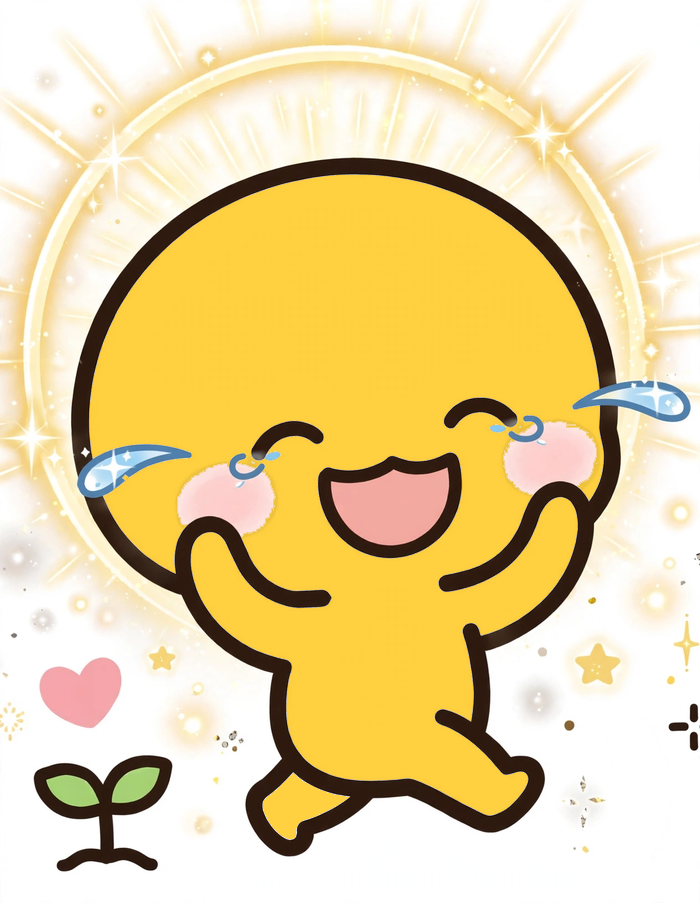
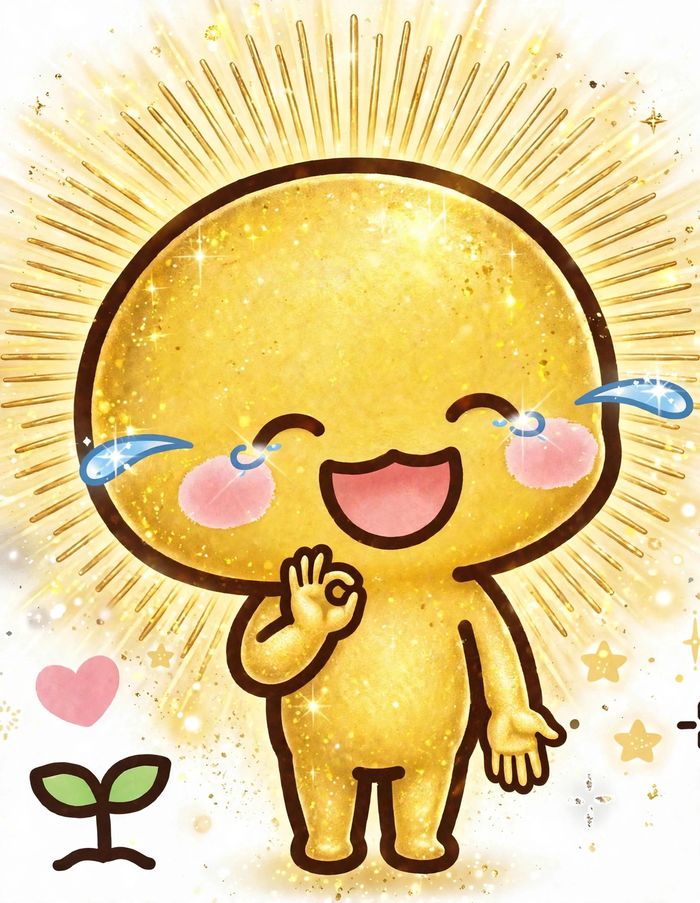
おもろグ〜の土台を用意（投稿ログ＋おもろボタン＋おもろっち育成）

diff --git a/index.html b/index.html
@@ -191,6 +191,7 @@
   }
 
   /* ===== おもろっちについて（ポップアップ） ===== */
+  .house .about-row{ margin:8px 0 0; }
   .about-link{
     display:inline-block;
     min-height:48px; padding:12px 10px;
@@ -298,6 +299,22 @@
     font-family:inherit;
     transition:transform .1s ease, background .2s ease;
   }
+  /* ===== シェアボタン（おもろボタンの横） ===== */
+  .btn-actions{ display:inline-flex; align-items:center; gap:8px; }
+  .share-btn{
+    display:inline-flex; align-items:center; gap:6px;
+    min-height:48px; min-width:48px;
+    padding:8px 14px;
+    border:3px solid var(--card-border);
+    background:#fff; color:var(--orange-dark);
+    border-radius:999px;
+    font-size:15px; font-weight:900; font-family:inherit;
+    cursor:pointer;
+    transition:transform .1s ease, background .2s ease;
+    -webkit-tap-highlight-color:transparent;
+  }
+  .share-btn:active{ transform:scale(.94); }
+  .share-btn svg{ display:block; flex:0 0 auto; }
   .omoro-btn:active{ transform:scale(.94); }
   .omoro-btn img{ width:30px; display:block; }
   .omoro-btn .cnt{ font-size:17px; }
@@ -336,7 +353,7 @@
 
   <div class="growth-zone">
     <button type="button" class="growth-toggle" id="growthToggle" aria-expanded="false" aria-controls="growthPanel">
-      <img class="thumb" id="toggleThumb" src="stage-egg-0.png" width="700" height="903" alt="">
+      <img class="thumb" id="toggleThumb" src="stage-egg-t0.png" width="700" height="903" alt="">
       <span>おもろっちのおうち</span>
       <span class="chev" aria-hidden="true">▽</span>
     </button>
@@ -344,16 +361,17 @@
       <div class="house-roof" aria-hidden="true"></div>
       <div class="house-room" id="houseRoom">
         <button type="button" class="walker" id="walker" aria-label="おもろっち">
-          <span class="jumpwrap" id="jumpWrap"><img id="stageImg" src="stage-egg-0.png" width="700" height="903" alt="おもろっち"></span>
+          <span class="jumpwrap" id="jumpWrap"><img id="stageImg" src="stage-egg-t0.png" width="700" height="903" alt="おもろっち"></span>
         </button>
       </div>
       <div class="form-row" id="formRow" aria-label="すがたをえらぶ"></div>
       <div class="progress">
-        <p class="total-row"><img src="omorocchi-icon.png" width="512" height="512" alt=""><b id="totalCount">0</b></p>
+        <p class="total-row"><img id="totalImg" src="stage-egg-t0.png" width="700" height="903" alt=""><b id="totalCount">0</b></p>
         <div class="bar"><div id="barFill"></div></div>
-        <p class="next-row" id="nextRow"><img id="nextImg" src="stage-baby.png" width="700" height="903" alt=""><span>あと <b id="nextCount">10</b></span></p>
+        <p class="next-row" id="nextRow"><img id="nextImg" src="stage-egg-t0.png" width="700" height="903" alt=""><span>あと <b id="nextCount">10</b></span></p>
         <p class="next-row" id="maxRow" hidden><img src="stage-god.png" width="700" height="903" alt=""><span>✨</span></p>
       </div>
+      <p class="about-row"><button type="button" class="about-link" id="aboutOpen">おもろっちについて ›</button></p>
     </div>
   </div>
 </header>
@@ -362,7 +380,6 @@
   <main id="list"></main>
 
   <footer>
-    <p><button type="button" class="about-link" id="aboutOpen">おもろっちについて ›</button></p>
     <p>おもろグ〜は、平和で面白い投稿を集める小さなログです。<br>
     運営：<a href="https://takechanlink.pages.dev/" target="_blank" rel="noopener">心体調整塾 たけちゃん</a></p>
   </footer>
@@ -375,14 +392,14 @@
       <button type="button" class="about-x" id="aboutCloseX" aria-label="閉じる">×</button>
     </div>
     <p>面白い投稿の「おもろ」ボタンを押すと、その数がおもろっちの力になります。みんなのおもろが増えると、おもろっちは成長します。</p>
-    <p>進捗の見方：おもろっちの顔と数字が、みんなのおもろの合計です。次のステージの絵と「あと◯」が、次の成長までの残りです。</p>
+    <p>進捗の見方：おもろっちの顔と数字が、みんなのおもろの合計です。「あと◯」が、次の成長までの残りです。</p>
     <ul class="stage-list">
-      <li><img src="stage-egg-0.png" width="700" height="903" alt="">卵おもろっち<span class="min">0〜</span></li>
-      <li><img src="stage-baby.png" width="700" height="903" alt="">ベビーおもろっち<span class="min">10〜</span></li>
-      <li><img src="stage-kid.png" width="700" height="903" alt="">子供おもろっち<span class="min">30〜</span></li>
-      <li><img src="stage-adult.png" width="900" height="1162" alt="">大人おもろっち<span class="min">100〜</span></li>
-      <li><img src="stage-daidara.png" width="700" height="903" alt="">ダイダラおもろっち<span class="min">300〜</span></li>
-      <li><img src="stage-god.png" width="700" height="903" alt="">神おもろっち<span class="min">800〜</span></li>
+      <li><img class="stage-thumb" data-img="stage-egg-t0.png" src="stage-egg-t0.png" width="700" height="903" alt=""><span class="stage-name" data-name="卵おもろっち">卵おもろっち</span><span class="min">0〜</span></li>
+      <li><img class="stage-thumb" data-img="stage-baby.png" src="stage-egg-t0.png" width="700" height="903" alt=""><span class="stage-name" data-name="ベビーおもろっち">？？？</span><span class="min">10〜</span></li>
+      <li><img class="stage-thumb" data-img="stage-kid.png" src="stage-egg-t0.png" width="700" height="903" alt=""><span class="stage-name" data-name="子供おもろっち">？？？</span><span class="min">30〜</span></li>
+      <li><img class="stage-thumb" data-img="stage-adult.png" src="stage-egg-t0.png" width="900" height="1162" alt=""><span class="stage-name" data-name="大人おもろっち">？？？</span><span class="min">100〜</span></li>
+      <li><img class="stage-thumb" data-img="stage-daidara.png" src="stage-egg-t0.png" width="700" height="903" alt=""><span class="stage-name" data-name="ダイダラおもろっち">？？？</span><span class="min">300〜</span></li>
+      <li><img class="stage-thumb" data-img="stage-god.png" src="stage-egg-t0.png" width="700" height="903" alt=""><span class="stage-name" data-name="神おもろっち">？？？</span><span class="min">800〜</span></li>
     </ul>
     <button type="button" class="about-close" id="aboutClose">閉じる</button>
   </div>
@@ -396,21 +413,21 @@
 
   /* ===== 成長ステージ（閾値はここで調整できます） ===== */
   var STAGES = [
-    { key:'egg',    name:'卵おもろっち',       img:'stage-egg-0.png',  min:0 },
-    { key:'baby',   name:'ベビーおもろっち',   img:'stage-baby.png',   wide:'wide-baby.webp', min:10 },
-    { key:'kid',    name:'子供おもろっち',     img:'stage-kid.png',    wide:'wide-kid.webp',  min:30 },
-    { key:'adult',  name:'大人おもろっち',     img:'stage-adult.png',  wide:'wide-adult.webp', min:100 },
-    { key:'daidara', name:'ダイダラおもろっち', img:'stage-daidara.png', wide:'wide-daidara.webp', min:300 },
-    { key:'god',    name:'神おもろっち',       img:'stage-god.png',    wide:'wide-god.webp',  min:800 }
+    { key:'egg',    name:'卵おもろっち',       img:'stage-egg-t0.png', min:0 },
+    { key:'baby',   name:'ベビーおもろっち',   img:'stage-baby.png',   wide:'wide-baby.webp',   anim:'wide-baby-anim.webp',   min:10 },
+    { key:'kid',    name:'子供おもろっち',     img:'stage-kid.png',    wide:'wide-kid.webp',    anim:'wide-kid-anim.webp',    min:30 },
+    { key:'adult',  name:'大人おもろっち',     img:'stage-adult.png',  wide:'wide-adult.webp',  anim:'wide-adult-anim.webp',  min:100 },
+    { key:'daidara', name:'ダイダラおもろっち', img:'stage-daidara.png', wide:'wide-daidara.webp', anim:'wide-daidara-anim.webp', min:300 },
+    { key:'god',    name:'神おもろっち',       img:'stage-god.png',    wide:'wide-god.webp',    anim:'wide-god-anim.webp',    min:800 }
   ];
 
   /* 卵ステージの中の「割れていく過程」（合計おもろで切り替え） */
   var EGG_CRACKS = [
-    { max:1, img:'stage-egg-0.png' },  /* 0〜1：ヒビなし */
-    { max:3, img:'stage-egg-1.png' },  /* 2〜3：小さなヒビ */
-    { max:5, img:'stage-egg-2.png' },  /* 4〜5：ヒビが大きく広がる */
-    { max:7, img:'stage-egg-3.png' },  /* 6〜7：ヒビ最大・殻が少し開きかける */
-    { max:9, img:'stage-egg-4.png' }   /* 8〜9：割れそうでベビーが半分見える */
+    { max:1, img:'stage-egg-t0.png' },  /* 0〜1：ヒビなし */
+    { max:3, img:'stage-egg-t1.png' },  /* 2〜3：小さなヒビ */
+    { max:5, img:'stage-egg-t2.png' },  /* 4〜5：ヒビが大きく広がる */
+    { max:7, img:'stage-egg-t3.png' },  /* 6〜7：ヒビ最大・殻が少し開きかける */
+    { max:9, img:'stage-egg-t4.png' }   /* 8〜9：割れそうでベビーが半分見える */
   ];
   /* 割れ具合の画像を先読みして、切り替え時のちらつきを防ぐ */
   for (var pre = 0; pre < EGG_CRACKS.length; pre++) { var preImg = new Image(); preImg.src = EGG_CRACKS[pre].img; }
@@ -433,10 +450,19 @@
   var room = document.getElementById('houseRoom');
   var walker = document.getElementById('walker');
   var jumpWrap = document.getElementById('jumpWrap');
+  var totalImg = document.getElementById('totalImg');
   var nextRow = document.getElementById('nextRow');
   var nextImg = document.getElementById('nextImg');
   var nextCount = document.getElementById('nextCount');
   var maxRow = document.getElementById('maxRow');
+  /* アニメ版が読み込めないときは静止画 wide にフォールバック */
+  stageImg.addEventListener('error', function(){
+    var fb = stageImg.dataset ? stageImg.dataset.fallback : '';
+    if (fb && stageImg.getAttribute('src') !== fb) {
+      currentImg = fb;
+      stageImg.src = fb;
+    }
+  });
   var currentStage = -1;
   var currentImg = '';
   var currentDisp = -1;
@@ -518,7 +544,8 @@
       var next = STAGES[idx + 1];
       var pct = Math.floor((total - st.min) / (next.min - st.min) * 100);
       barFill.style.width = Math.max(0, Math.min(100, pct)) + '%';
-      nextImg.src = next.img;
+      /* 「あと◯」の横は次の姿ではなく「今の姿」にする（ネタバレ防止） */
+      nextImg.src = st.img;
       nextCount.textContent = (next.min - total);
       nextRow.hidden = false;
       maxRow.hidden = true;
@@ -527,9 +554,9 @@
       nextRow.hidden = true;
       maxRow.hidden = false;
     }
-    /* おうちの表示：wide がある姿は横長シーン、ない姿は縦絵 */
-    var himg = dst.wide || img;
-    sceneMode = !!dst.wide;
+    /* おうちの表示：アニメ版があればそれ、なければ wide 横長シーン、ない姿は縦絵 */
+    var himg = dst.anim || dst.wide || img;
+    sceneMode = !!(dst.anim || dst.wide);
     room.classList.toggle('scene', sceneMode);
     walker.classList.toggle('scene-walker', sceneMode);
     jumpWrap.classList.toggle('sway', sceneMode);
@@ -541,6 +568,7 @@
       startWalk();
     }
     if (himg !== currentImg) {
+      stageImg.dataset.fallback = dst.wide || '';
       stageImg.src = himg;
       if (sceneMode) { stageImg.setAttribute('width', '1200'); stageImg.setAttribute('height', '800'); }
       else { stageImg.setAttribute('width', '700'); stageImg.setAttribute('height', '903'); }
@@ -551,6 +579,34 @@
       currentDisp = dispIdx;
     }
     paintForms(idx, dispIdx);
+    /* 合計の横のアイコンも「今の姿」に追随させる（ネタバレ防止） */
+    if (totalImg.getAttribute('src') !== st.img) {
+      totalImg.src = st.img;
+      totalImg.setAttribute('width', '700');
+      totalImg.setAttribute('height', '903');
+    }
+    /* 記事の「おもろ」ボタンの顔アイコンも、おうちに表示している姿に合わせる（卵の間は透過版の卵） */
+    var formImg = dst.img;
+    var btnIcons = listEl.querySelectorAll('.omoro-btn img');
+    for (var bi = 0; bi < btnIcons.length; bi++) {
+      if (btnIcons[bi].getAttribute('src') !== formImg) {
+        btnIcons[bi].src = formImg;
+        btnIcons[bi].setAttribute('width', '700');
+        btnIcons[bi].setAttribute('height', '903');
+      }
+    }
+    /* 「おもろっちについて」のステージ一覧もネタバレ防止：未到達は絵＝卵・名前＝？？？にする */
+    var stageThumbs = document.querySelectorAll('.stage-list img.stage-thumb');
+    var stageNames = document.querySelectorAll('.stage-list .stage-name');
+    for (var ti = 0; ti < stageThumbs.length; ti++) {
+      var reachedStage = ti <= idx;
+      var want = reachedStage ? stageThumbs[ti].getAttribute('data-img') : 'stage-egg-t0.png';
+      if (want && stageThumbs[ti].getAttribute('src') !== want) stageThumbs[ti].src = want;
+      if (stageNames[ti]) {
+        var wantName = reachedStage ? stageNames[ti].getAttribute('data-name') : '？？？';
+        if (wantName && stageNames[ti].textContent !== wantName) stageNames[ti].textContent = wantName;
+      }
+    }
     if (idx !== currentStage) {
       if (currentStage >= 0 && pop) hop();
       currentStage = idx;
@@ -630,6 +686,34 @@
     btn.querySelector('.cnt').textContent = counts[id] || 0;
   }
 
+  /* ===== シェア（ほっとニュースと同じ方式：共有シート→使えなければコピー） ===== */
+  function shareEntry(en, btn){
+    var url = 'https://omoro-good.pages.dev/#a=' + encodeURIComponent(en.id);
+    var text = 'おもろグ〜\n' + en.title;
+    if (navigator.share) {
+      navigator.share({ title:'おもろグ〜', text:text, url:url }).catch(function(){});
+      return;
+    }
+    function done(){
+      var label = btn.querySelector('.share-label');
+      if (!label) return;
+      var orig = label.textContent;
+      label.textContent = 'コピーしました';
+      setTimeout(function(){ label.textContent = orig; }, 1600);
+    }
+    if (navigator.clipboard && navigator.clipboard.writeText) {
+      navigator.clipboard.writeText(text + '\n' + url).then(done).catch(function(){});
+    } else {
+      var ta = document.createElement('textarea');
+      ta.value = text + '\n' + url;
+      ta.style.position = 'fixed'; ta.style.opacity = '0';
+      document.body.appendChild(ta);
+      ta.select();
+      try { document.execCommand('copy'); done(); } catch(e) {}
+      ta.remove();
+    }
+  }
+
   function doOmoro(id, btn){
     if (liked.indexOf(id) >= 0) return;
     spawnFaces(btn);
@@ -664,6 +748,7 @@
   entries.forEach(function(en){
     var card = document.createElement('article');
     card.className = 'card';
+    card.id = 'post-' + en.id;
     var badgeClass = en.platform === 'Threads' ? 'threads' : (en.platform === 'X' ? 'x' : 'instagram');
     card.innerHTML =
       '<div class="meta"><span class="badge ' + badgeClass + '">' + en.platform + '</span>' +
@@ -671,9 +756,15 @@
       '<h2></h2><p class="body"></p>' +
       '<div class="row">' +
         '<a class="orig-link" target="_blank" rel="noopener">元の投稿を見る →</a>' +
-        '<button type="button" class="omoro-btn" aria-label="おもろボタン">' +
-          '<img src="omorocchi-icon.png" width="512" height="512" alt="">おもろ<span class="cnt">0</span>' +
-        '</button>' +
+        '<span class="btn-actions">' +
+          '<button type="button" class="share-btn" aria-label="この記事をシェアする">' +
+            '<svg viewBox="0 0 24 24" width="20" height="20" fill="none" stroke="currentColor" stroke-width="2.2" stroke-linecap="round" stroke-linejoin="round" aria-hidden="true"><circle cx="18" cy="5" r="3"/><circle cx="6" cy="12" r="3"/><circle cx="18" cy="19" r="3"/><path d="M8.6 10.6l6.8-4.2M8.6 13.4l6.8 4.2"/></svg>' +
+            '<span class="share-label">シェア</span>' +
+          '</button>' +
+          '<button type="button" class="omoro-btn" aria-label="おもろボタン">' +
+            '<img src="omorocchi-icon.png" width="512" height="512" alt="">おもろ<span class="cnt">0</span>' +
+          '</button>' +
+        '</span>' +
       '</div>';
     card.querySelector('h2').textContent = en.title;
     card.querySelector('p.body').textContent = en.body;
@@ -681,10 +772,19 @@
     var btn = card.querySelector('.omoro-btn');
     paintBtn(btn, en.id);
     btn.addEventListener('click', function(){ doOmoro(en.id, btn); });
+    var sbtn = card.querySelector('.share-btn');
+    sbtn.addEventListener('click', function(){ shareEntry(en, sbtn); });
     listEl.appendChild(card);
   });
 
   renderGrowth(false);
+
+  /* 共有アンカー（#a=<記事ID>）で開かれたら、その記事までスクロール */
+  if (location.hash.indexOf('#a=') === 0) {
+    var anchorId = decodeURIComponent(location.hash.slice(3));
+    var anchorEl = document.getElementById('post-' + anchorId);
+    if (anchorEl) setTimeout(function(){ anchorEl.scrollIntoView({ block:'start' }); }, 80);
+  }
 
   /* ===== 現在の集計を取得 ===== */
   fetch(SB_URL + '/rest/v1/omoro_likes?select=post_id,count', {
